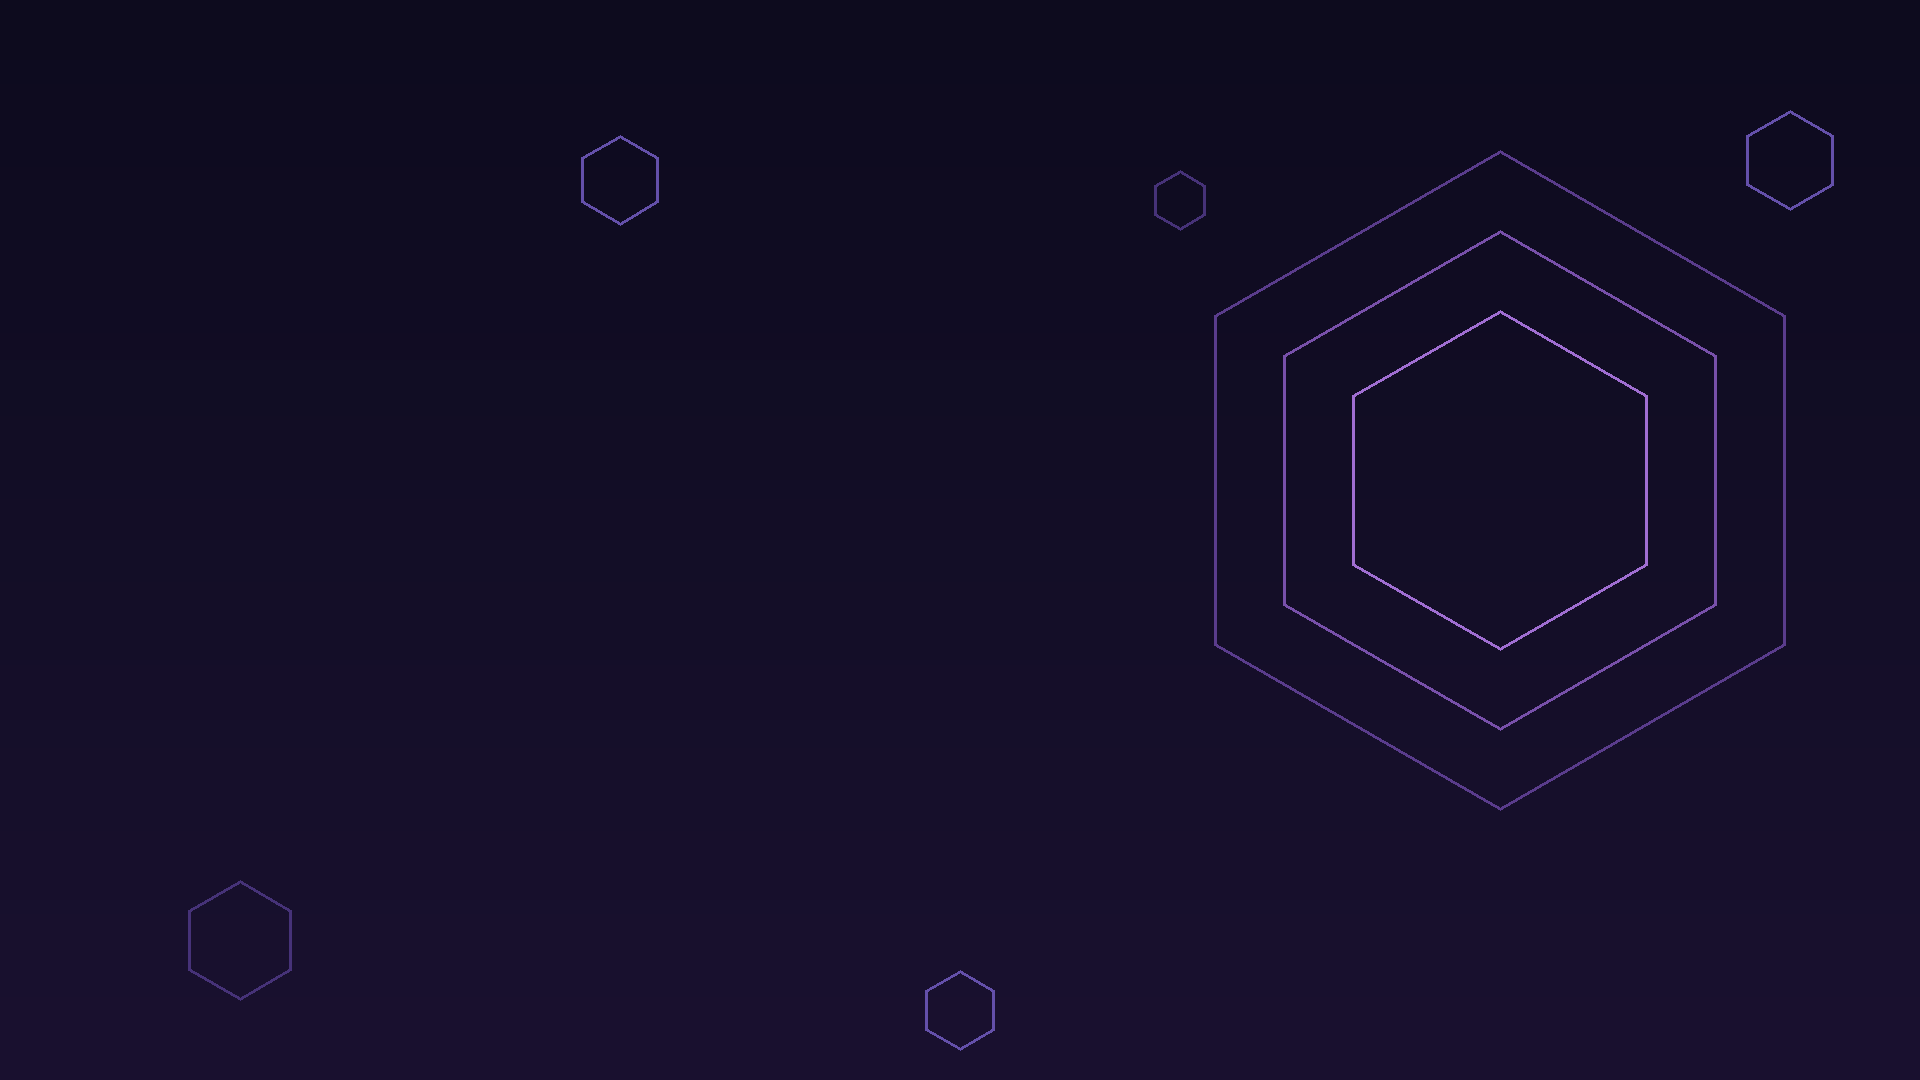
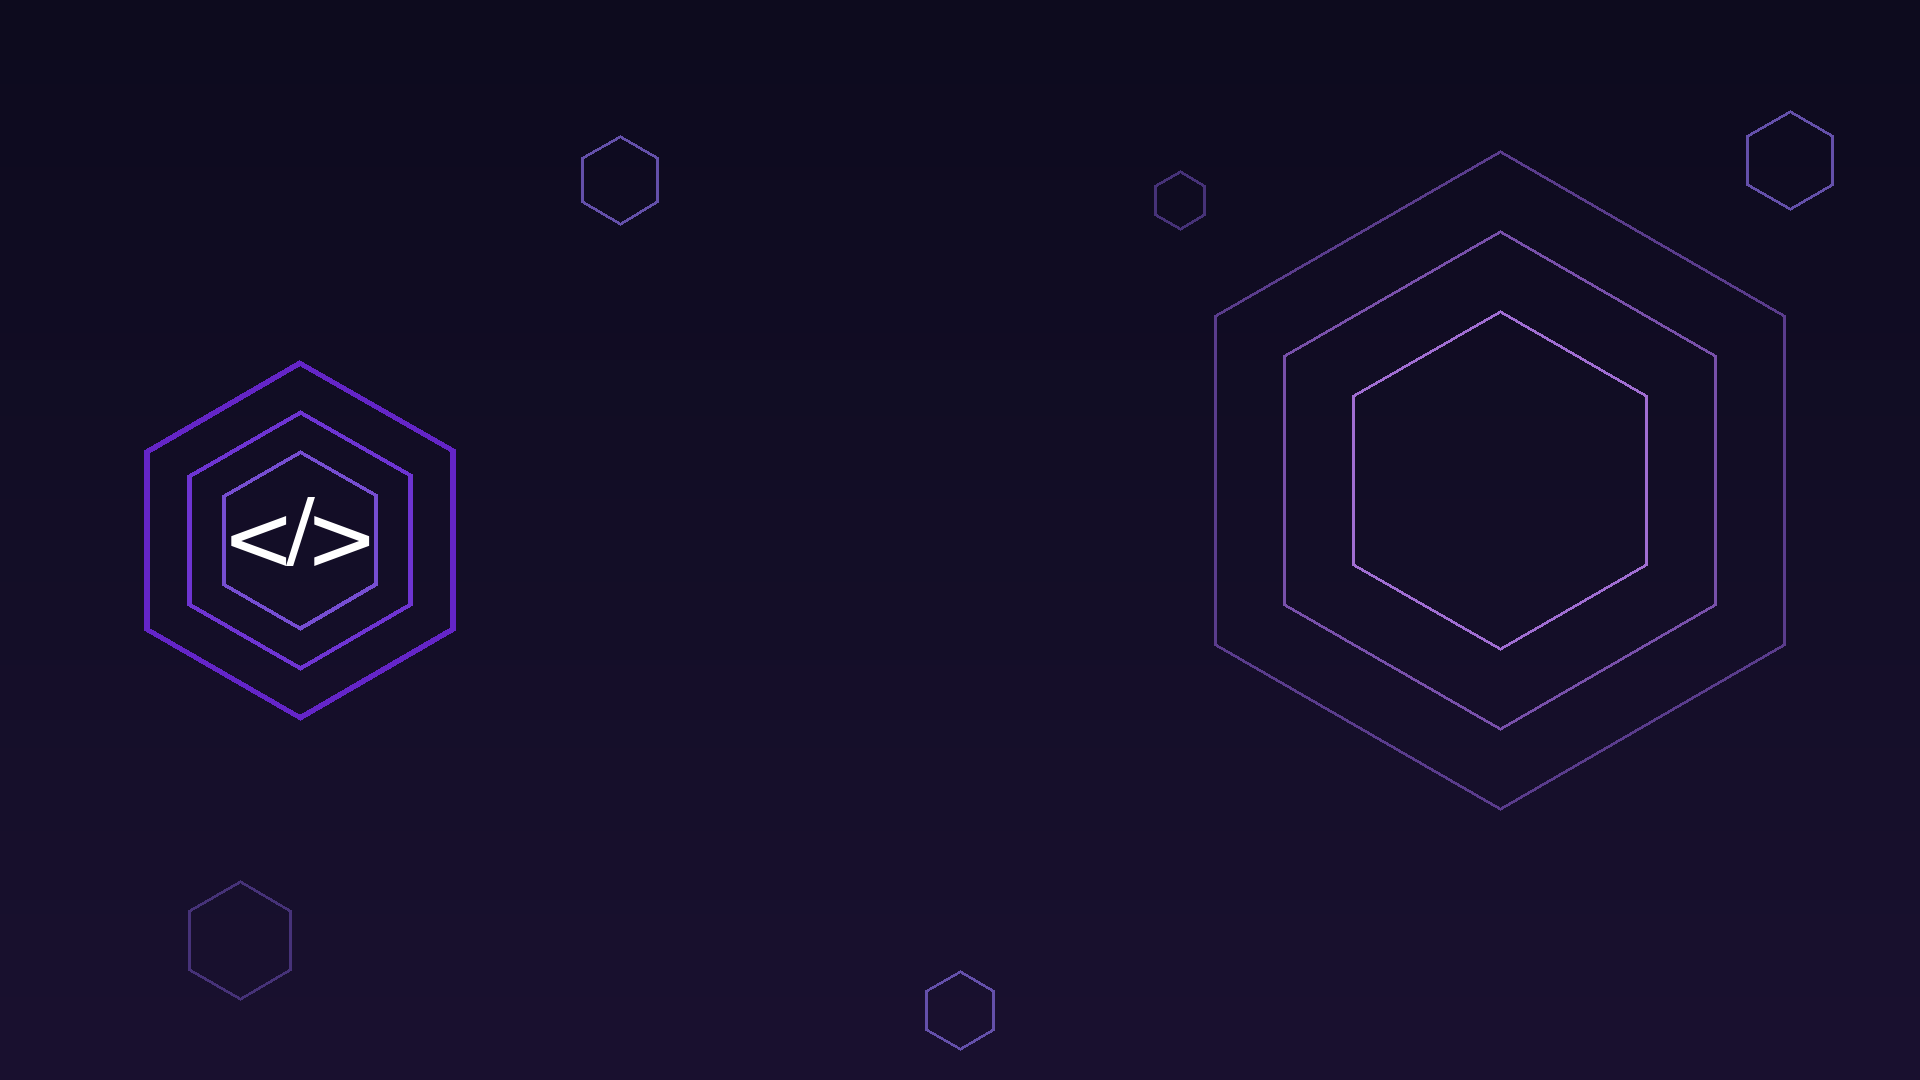
feat(prospire_elearning): lockdown + branding + coupon unlock
- Force course visibility to members-only + invite enrollment
- Preview first 3 sections unlocked by default
- Coupon SD@2026 unlocks full course via /slides/coupon_join
- Auto-demote website-created users to portal-only
- Redirect learners to /slides after login (web + navbar)
- Add ProspireNext logo, footer contact, instructor card, course cover
- Responsive hero / sidebar UI

diff --git a/custom_addons/prospire_elearning/static/src/scss/prospire_elearning.scss b/custom_addons/prospire_elearning/static/src/scss/prospire_elearning.scss
@@ -109,6 +109,105 @@ $prospire-primary-darker: #4C1D95;
             background: rgba(109, 40, 217, 0.04);
         }
     }
+
+    // Responsive hero: the cover image must never overflow its column
+    .o_wslides_course_pict {
+        max-width: 100%;
+        height: auto;
+    }
+
+    @media (max-width: 767px) {
+        .o_wslides_course_pict {
+            max-height: 220px;
+        }
+
+        .o_wslides_course_header {
+            padding-top: 0.5rem;
+        }
+    }
+
+    // Coupon unlock card (invite-only courses)
+    .prospire-coupon-card {
+        border: 1px solid rgba(109, 40, 217, 0.35);
+        border-radius: 12px;
+        padding: 20px;
+        margin-bottom: 24px;
+        background: linear-gradient(160deg, rgba(109, 40, 217, 0.08), rgba(76, 29, 149, 0.03));
+
+        .prospire-coupon-title {
+            color: $prospire-primary-darker;
+            font-weight: 700;
+            margin-bottom: 8px;
+        }
+
+        .prospire-coupon-text {
+            font-size: 0.9rem;
+            color: rgba(13, 11, 30, 0.75);
+            margin-bottom: 12px;
+        }
+
+        #prospire_coupon_input {
+            margin-bottom: 10px;
+        }
+
+        .prospire-coupon-error {
+            margin-top: 10px;
+            font-size: 0.85rem;
+            color: #B91C1C;
+        }
+    }
+
+    // Instructor sidebar card
+    .prospire-instructor-side {
+        display: flex;
+        align-items: center;
+        border: 1px solid rgba(109, 40, 217, 0.25);
+        border-radius: 12px;
+        padding: 16px 20px;
+        margin-bottom: 24px;
+        background: rgba(109, 40, 217, 0.04);
+
+        .prospire-instructor-avatar {
+            flex: 0 0 auto;
+            width: 56px;
+            height: 56px;
+            border-radius: 50%;
+            background: linear-gradient(135deg, #8B5CF6 0%, #6D28D9 55%, #4C1D95 100%);
+            color: #FFFFFF;
+            font-weight: 700;
+            font-size: 1.3rem;
+            display: flex;
+            align-items: center;
+            justify-content: center;
+            margin-right: 14px;
+        }
+
+        .prospire-instructor-name {
+            font-weight: 700;
+            color: $prospire-primary-darker;
+        }
+
+        .prospire-instructor-bio {
+            font-size: 0.85rem;
+            color: rgba(13, 11, 30, 0.7);
+            margin: 2px 0;
+        }
+
+        .prospire-instructor-link {
+            font-size: 0.85rem;
+            font-weight: 600;
+        }
+    }
+}
+
+// Footer contact bar: deliberately NOT scoped to .o_wslides — it is part
+// of the site-wide footer.
+.prospire-footer-contact {
+    background: #0D0B1E;
+    color: rgba(245, 243, 250, 0.85);
+    text-align: center;
+    font-size: 0.85rem;
+    padding: 12px 16px;
 }
 
 // Navbar link hover on eLearning pages only

diff --git a/custom_addons/prospire_elearning/__init__.py b/custom_addons/prospire_elearning/__init__.py
@@ -11,12 +11,18 @@ from .course_content import (
     CURRICULUM,
 )
 
+from . import controllers  # noqa: F401
+from . import models  # noqa: F401
+
 _logger = logging.getLogger(__name__)
 
 TARGET_CHANNEL_NAME = 'Odoo Technical Training SDTek'
 LEGACY_CHANNEL_NAME = 'SDTEKH — Odoo Technical Training'
 HANDBOOK_SECTION_NAME = 'Course Orientation'
 HANDBOOK_SLIDE_NAME = 'Technical Orientation — Course Handbook'
+COUPON_PARAM = 'prospire.course.coupon'
+COUPON_CODE = 'SD@2026'
+COMPANY_PHONE = '+880 16118 14937'
 HANDBOOK_SLIDE_SUMMARY = (
     'Level: Beginner | Duration: ~0.5h. Download the course handbook (PDF): '
     'curriculum overview, setup checklists and reference material for the full track.'
@@ -33,6 +39,15 @@ for _section in CURRICULUM:
     for _lesson in _section['lessons']:
         CURRICULUM_NAMES.add(_lesson['name'])
 
+# Sections whose lessons are free preview (accessible without joining):
+# the orientation plus the first two curriculum sections. Applied only on
+# the creation path — existing slides are never touched.
+PREVIEW_SECTION_NAMES = {
+    HANDBOOK_SECTION_NAME,
+    CURRICULUM[0]['name'],
+    CURRICULUM[1]['name'],
+}
+
 
 def post_init_hook(env):
     try:
@@ -47,20 +62,37 @@ def post_init_hook(env):
         _logger.exception(
             'prospire_elearning: post-init course setup skipped due to an error'
         )
+    try:
+        # Runs on every boot by design; escape hatch via the
+        # 'prospire.auto_portal' config parameter (see models/res_users.py).
+        env['res.users'].sudo()._prospire_demote_plain_users()
+    except Exception:
+        _logger.exception(
+            'prospire_elearning: post-init auto-portal demotion skipped due to an error'
+        )
 
 
 def _setup_website_branding(env):
-    """Light branding setup: website name + company logo fallback.
+    """Branding setup: website name, logo and company phone.
 
-    Never overwrites an existing logo.
+    The logo is ALWAYS overwritten with the company logo (the current
+    placeholder is the stock "Your Logo"). The company email is left alone:
+    it doubles as the SMTP sender identity.
     """
     Website = env['website'].sudo()
     for website in Website.search([]):
         values = {}
         if not website.name:
             values['name'] = website.company_id.name or 'ProspireNext'
-        if not website.logo and website.company_id.logo:
+        if website.company_id.logo and website.logo != website.company_id.logo:
             values['logo'] = website.company_id.logo
+        company = website.company_id
+        if company.phone != COMPANY_PHONE:
+            company.phone = COMPANY_PHONE
+            _logger.info(
+                'prospire_elearning: company %s phone set to %s',
+                company.id, COMPANY_PHONE,
+            )
         if values:
             website.write(values)
             _logger.info(
@@ -110,12 +142,17 @@ def _resolve_target_channel(Channel, env):
 
 
 def _apply_channel_branding(env, channel):
-    """Refresh course cover image, trainer and description on every sync."""
+    """Refresh course cover, access policy, trainer and description on every sync."""
     values = {
         'description_short': CHANNEL_DESCRIPTION_SHORT,
         'description': CHANNEL_DESCRIPTION,
         'description_html': CHANNEL_DESCRIPTION_HTML,
+        # Paid course: only members see content; joining requires an
+        # invitation or a coupon (see /slides/coupon_join).
+        'visibility': 'members',
+        'enroll': 'invite',
     }
+    env['ir.config_parameter'].sudo().set_param(COUPON_PARAM, COUPON_CODE)
     cover_path = os.path.join(os.path.dirname(__file__), COVER_IMAGE_RELPATH)
     try:
         with open(cover_path, 'rb') as cover_file:
@@ -206,6 +243,7 @@ def _create_orientation(Slide, channel, seq):
         'sequence': seq + 1,
         'slide_category': 'document',
         'is_published': True,
+        'is_preview': True,
         'completion_time': 0.5,
         'description': HANDBOOK_SLIDE_SUMMARY,
     }
@@ -256,6 +294,9 @@ def _create_curriculum(Slide, channel, tags, seq, existing):
                 'sequence': seq,
                 'slide_category': 'article',
                 'is_published': True,
+                # Free preview for the orientation + first two sections;
+                # creation path only — existing slides are never touched.
+                'is_preview': section_data['name'] in PREVIEW_SECTION_NAMES,
                 'completion_time': lesson_data['hours'],
                 'tag_ids': [(6, 0, [tags[lesson_data['level']].id])],
                 'description': lesson_data['summary'],

diff --git a/custom_addons/prospire_elearning/models/res_users.py b/custom_addons/prospire_elearning/models/res_users.py
@@ -1,0 +1,56 @@
+# -*- coding: utf-8 -*-
+import logging
+
+from odoo import models
+
+_logger = logging.getLogger(__name__)
+
+TRAINER_LOGIN = 'zahed.hasan.rabbi@gmail.com'
+AUTO_PORTAL_PARAM = 'prospire.auto_portal'
+# uid 1 = OdooBot (superuser), uid 2 = base.user_admin
+PROTECTED_UIDS = (1, 2)
+
+
+class ResUsers(models.Model):
+    _inherit = 'res.users'
+
+    def _prospire_demote_plain_users(self):
+        """Demote "plain" internal users to portal, once per boot sync.
+
+        A plain internal user is an active res.users with share=False whose
+        only group is base.group_user (nothing else). Students must never
+        land on the /odoo backend. Superuser/admin and the course trainer
+        are always skipped.
+
+        Escape hatch: set ir.config_parameter 'prospire.auto_portal' to '0'
+        to disable entirely. Never raises: the caller logs and continues.
+        """
+        try:
+            ICP = self.env['ir.config_parameter'].sudo()
+            if ICP.get_param(AUTO_PORTAL_PARAM) == '0':
+                _logger.info(
+                    'prospire_elearning: auto-portal disabled via %s=0, skipping',
+                    AUTO_PORTAL_PARAM,
+                )
+                return
+            group_user = self.env.ref('base.group_user')
+            group_portal = self.env.ref('base.group_portal')
+            trainer = self.search([('login', '=', TRAINER_LOGIN)], limit=1)
+            candidates = self.search([
+                ('share', '=', False),
+                ('active', '=', True),
+            ])
+            for user in candidates:
+                if user.id in PROTECTED_UIDS or (trainer and user.id == trainer.id):
+                    continue
+                if len(user.groups_id) != 1 or user.groups_id.id != group_user.id:
+                    continue
+                user.write({'groups_id': [(3, group_user.id), (4, group_portal.id)]})
+                _logger.info(
+                    'prospire_elearning: demoted plain internal user %r (login=%s) to portal',
+                    user.name, user.login,
+                )
+        except Exception:
+            _logger.exception(
+                'prospire_elearning: auto-portal demotion failed, skipping'
+            )

diff --git a/custom_addons/prospire_elearning/controllers/main.py b/custom_addons/prospire_elearning/controllers/main.py
@@ -1,0 +1,43 @@
+# -*- coding: utf-8 -*-
+import logging
+
+from odoo import http
+from odoo.http import request
+
+from odoo.addons.web.controllers.home import Home
+
+_logger = logging.getLogger(__name__)
+
+COUPON_PARAM = 'prospire.course.coupon'
+
+
+class Home(Home):
+    """Same class name as web's Home: Odoo merges the controller extensions."""
+
+    @http.route()
+    def login_successful_external_user(self, **kwargs):
+        # Students (portal/public users) go straight to the course catalog
+        # instead of the generic landing page; internal users keep the
+        # standard behavior (the /odoo backend).
+        if not request.env.user._is_internal():
+            return request.redirect('/slides')
+        return super().login_successful_external_user(**kwargs)
+
+
+class ProspireSlidesController(http.Controller):
+
+    @http.route('/slides/coupon_join', type='jsonrpc', auth='user', website=True)
+    def slides_coupon_join(self, channel_id, coupon):
+        """Enroll the current user into an invite-only course with a coupon."""
+        channel = request.env['slide.channel'].sudo().browse(channel_id).exists()
+        if not channel:
+            return {'success': False, 'error': 'Course not found'}
+        expected = request.env['ir.config_parameter'].sudo().get_param(COUPON_PARAM)
+        if not expected or (coupon or '').strip() != expected:
+            return {'success': False, 'error': 'Invalid coupon code'}
+        channel._action_add_members(request.env.user.partner_id)
+        _logger.info(
+            'prospire_elearning: user %s enrolled into course %r via coupon',
+            request.env.user.login, channel.name,
+        )
+        return {'success': True}

diff --git a/custom_addons/prospire_elearning/__manifest__.py b/custom_addons/prospire_elearning/__manifest__.py
@@ -7,6 +7,9 @@
     'website': 'https://prospirenext.com',
     'license': 'LGPL-3',
     'depends': ['website_slides', 'website'],
+    'data': [
+        'views/course_templates.xml',
+    ],
     'assets': {
         'web.assets_frontend': [
             'prospire_elearning/static/src/scss/prospire_elearning.scss',

diff --git a/custom_addons/prospire_elearning/models/__init__.py b/custom_addons/prospire_elearning/models/__init__.py
@@ -1,0 +1,2 @@
+# -*- coding: utf-8 -*-
+from . import res_users

diff --git a/custom_addons/prospire_elearning/controllers/__init__.py b/custom_addons/prospire_elearning/controllers/__init__.py
@@ -1,0 +1,2 @@
+# -*- coding: utf-8 -*-
+from . import main
